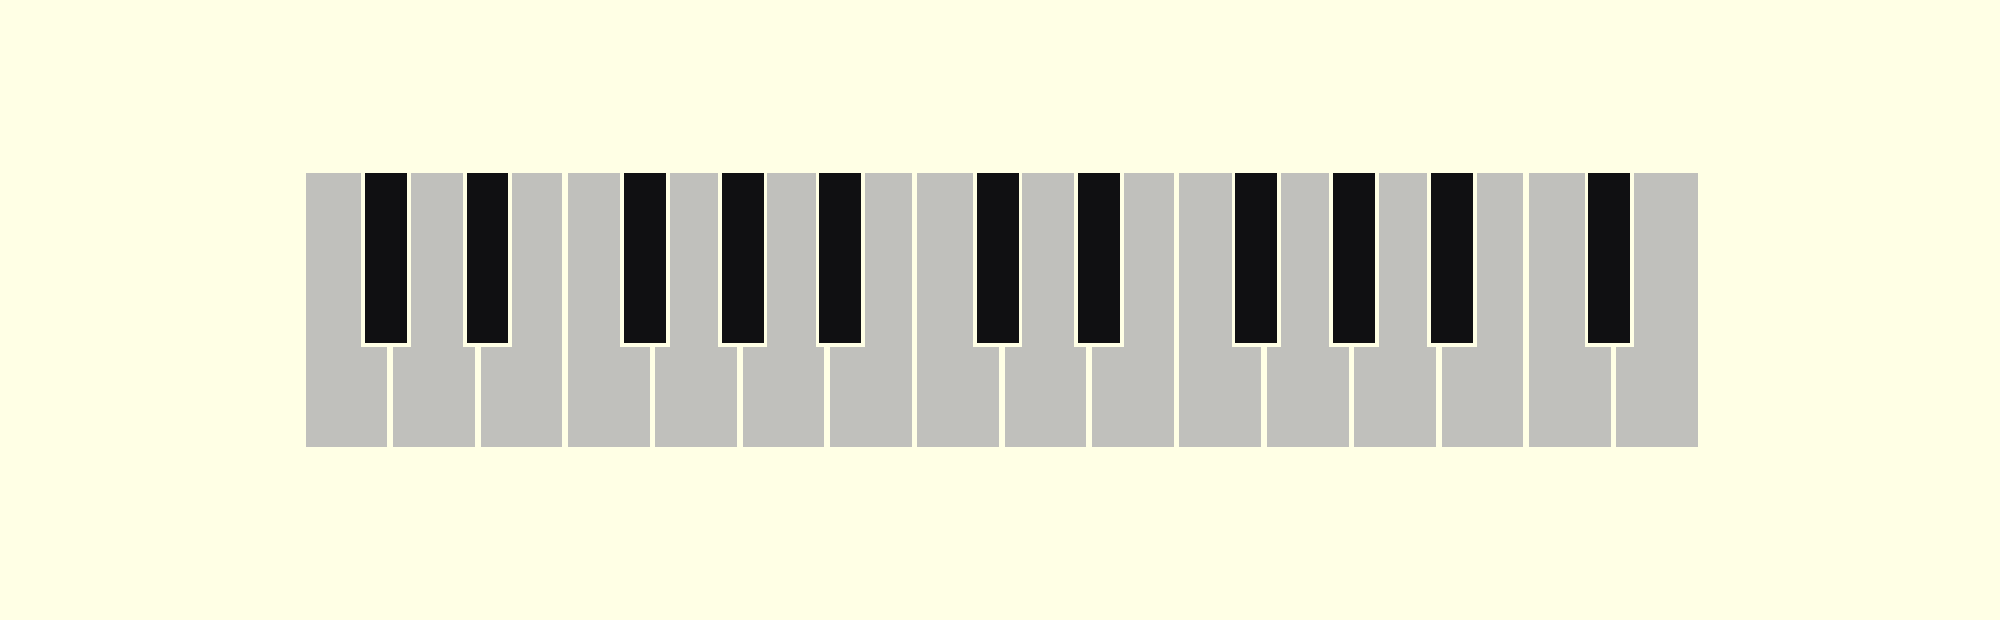
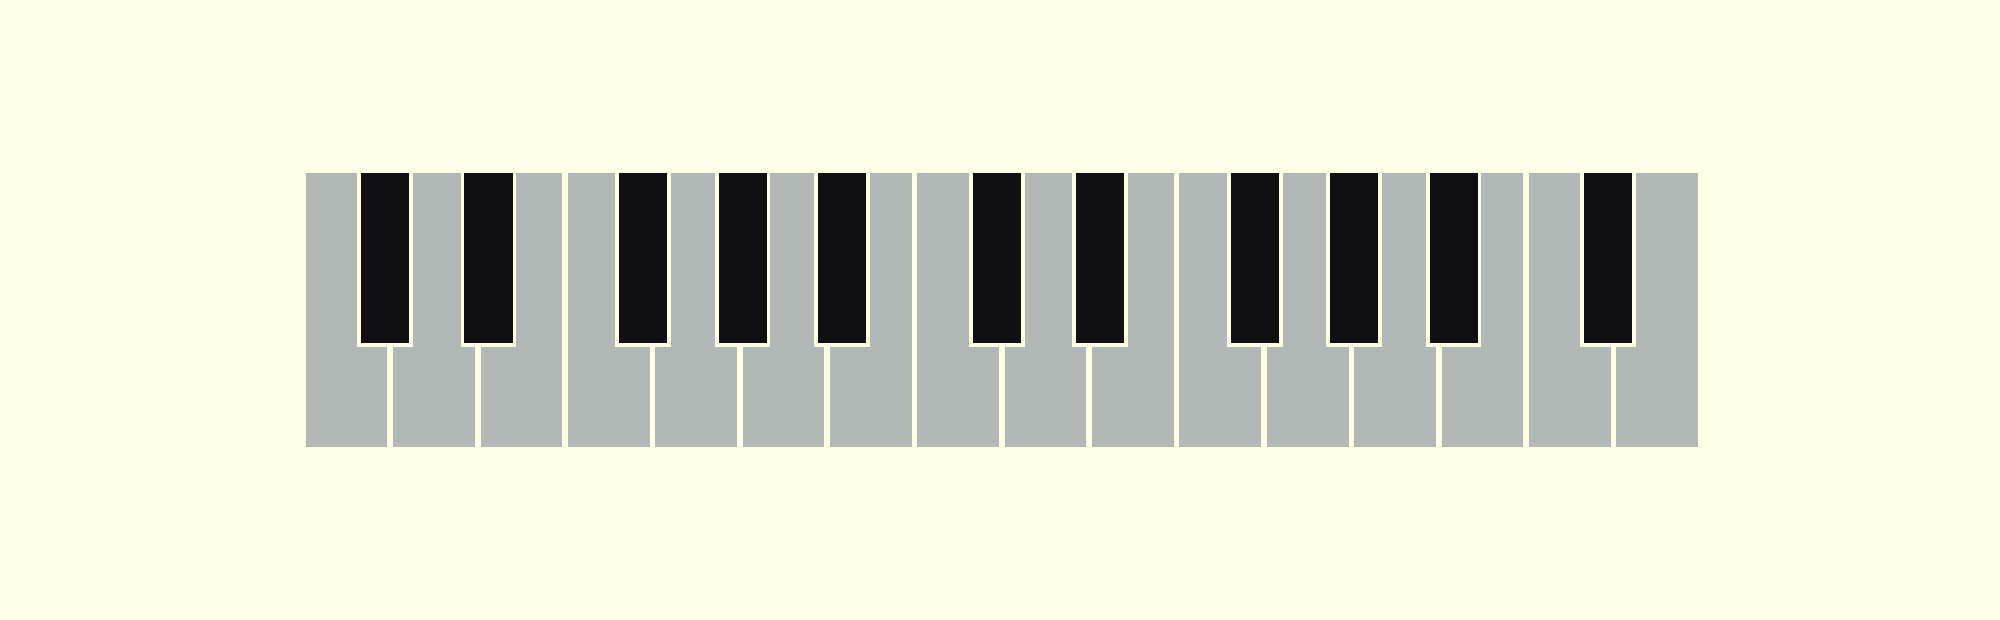
Méca : largeur des noires (cote de base, pas de sommet) + talons mesurables
- black_ratio 0,48 -> 0,55 (8,9 -> 10,2 mm). Une noire de piano est tronconique :
  ~9,5 mm au sommet, ~13 mm a la base. Vue de dessus, et sur une facade PLATE
  sans fruit, c'est la base qui fait la largeur apparente. Prendre la cote du
  sommet donnait des noires visiblement maigres.
- Talons : sur un vrai piano ils ne sont ni tous egaux, ni egaux par groupe — les
  blanches mordues d'un seul cote (do, mi, fa, si) ont un talon plus large que
  celles mordues des deux cotes (re, sol, la). Le modele par groupes n'etait donc
  qu'une approximation.
  -> `tails` accepte desormais les 7 cotes explicites, a mesurer sur un clavier
  reel. Placement des noires recrit par cumul, valable pour toute table.
  -> echo de controle : somme des talons + 5 noires doit refermer l'octave.

diff --git a/mechanical/README.md b/mechanical/README.md
@@ -89,14 +89,30 @@ Le facteur d'échelle est donc **0,787**… ce qui tombe précisément sur le fo
 Ce n'est donc pas un compromis bâtard mais un standard établi, avec lequel les
 joueurs sont déjà familiers.
 
-La mise à l'échelle stricte donnerait une **noire de 7,47 mm** contre 9,5 mm sur
-un piano — étroite, et d'autant moins fiable à toucher en capacitif. Les claviers
-mini-touches du commerce (Akai, Arturia, Novation) élargissent leurs noires plus
-que la réduction ne le voudrait. `black_ratio` est donc réglé à **0,48 → 8,9 mm**.
+**Largeur des noires — attention à la cote.** Une noire de piano est
+**tronconique** : ~9,5 mm au sommet (où le doigt se pose) mais ~13 mm à la base.
+Vue de dessus, et à plus forte raison sur une façade **plate** sans aucun fruit,
+c'est la **base** qui fait la largeur apparente. `black_ratio` = 13/23,5 =
+**0,55 → 10,2 mm**. Prendre la cote du sommet donne des noires visiblement
+maigres — erreur commise puis corrigée ici.
 
-> ⚠ Valeur **estimée**, à recaler en mesurant la largeur d'une noire sur un
-> clavier réel. Le pas de 18–19 mm des mini-claviers est en revanche une donnée
-> fiable, et le modèle est à 18,5.
+**Talons des blanches** (la partie étroite, entre les noires). Sur un vrai piano
+ils ne sont **ni tous égaux, ni égaux par groupe** : les blanches mordues d'**un
+seul côté** (do, mi, fa, si) ont un talon **plus large** que celles mordues des
+**deux côtés** (ré, sol, la). Le modèle par défaut (`tails = undef`) approxime
+avec des talons égaux dans chaque groupe — suffisant pour dégrossir.
+
+Pour la géométrie exacte, renseigner les sept cotes mesurées sur un clavier
+réel :
+
+```scad
+// exemple d'un piano — octave 165 mm, noire 13 mm
+tails = [15, 14, 15, 14.5, 13.5, 13.5, 14.5] * (pitch_w / 23.571);
+```
+
+> **Contrainte** : somme des 7 talons + 5 × largeur de noire = 7 × pas. Sinon les
+> talons dérivent par rapport aux faces avant, qui restent à pas égal. Le modèle
+> vérifie et le signale par un `echo`.
 
 ## Édition interactive
 Ouvrir `facade.scad` dans l'app OpenSCAD → fenêtre de preview, on tourne/zoome,
